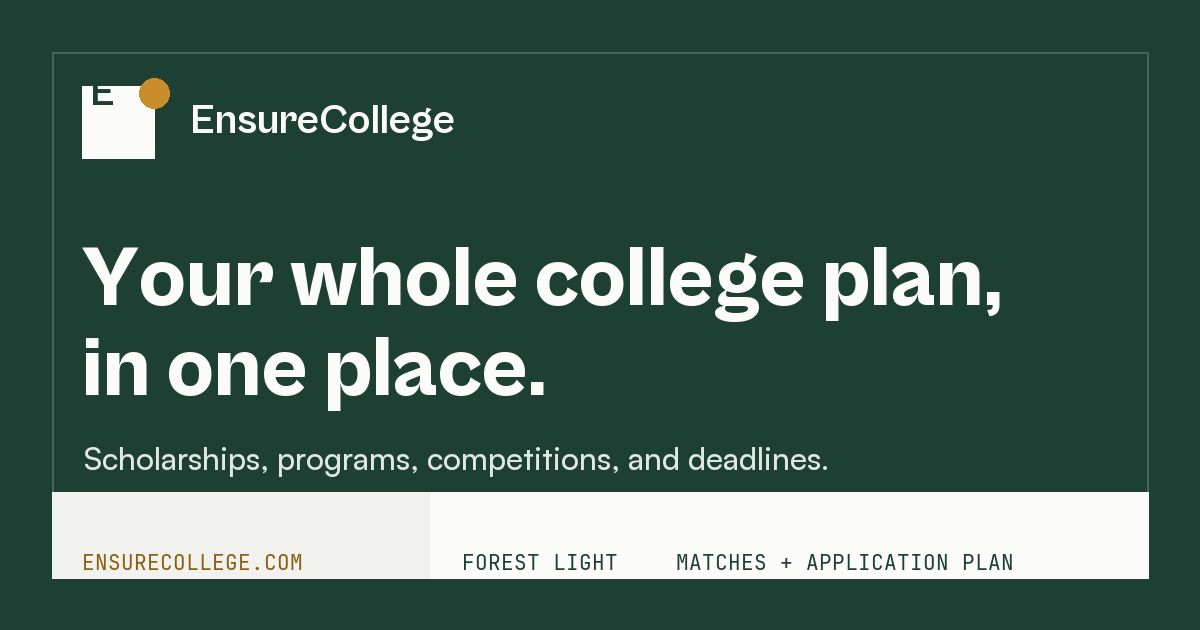
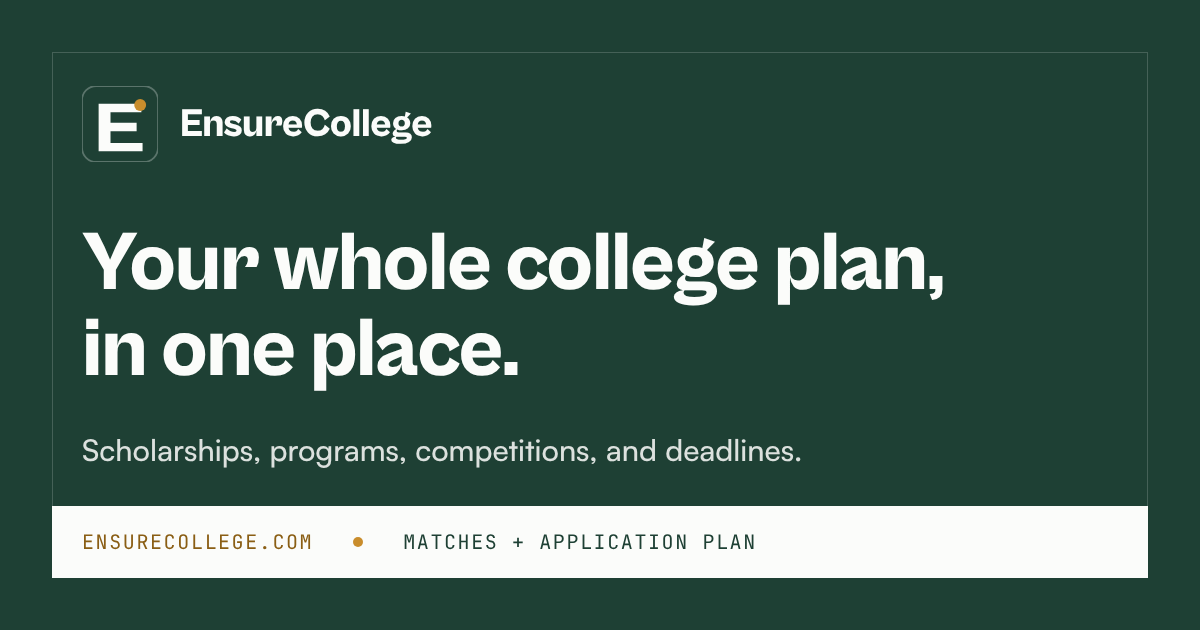
Cohesion pass: social card redrawn in Forest Light with the real brand mark
og-image.png (the card every shared link shows) drew the brand mark as a
white block with a clipped E in its corner, and printed the design
system's internal name, FOREST LIGHT, in its footer strip. Its committed
source, docs/brand/og-card.html, was still the retired Highlighter card.
The source is now a Forest Light card built from the style.css tokens and
the favicon's own mark (fonts load from app/static/fonts by relative
path), and og-image.png is its 1200x630 headless-Chromium render. Same
headline, subline, and site line; the internal name is gone.

e2e samples the PNG's mark tile (forest green with a white E); it fails
on the previous image.

diff --git a/docs/brand/og-card.html b/docs/brand/og-card.html
@@ -2,117 +2,104 @@
 <html lang="en">
 <head>
 <meta charset="utf-8">
-<link rel="preconnect" href="https://fonts.googleapis.com">
-<link rel="preconnect" href="https://fonts.gstatic.com" crossorigin>
-<link href="https://fonts.googleapis.com/css2?family=Fraunces:opsz,wght@9..144,400;9..144,600;9..144,700;9..144,800&family=Hanken+Grotesk:wght@400;500;600;700&family=Space+Mono:wght@400;700&display=swap" rel="stylesheet">
+<!-- Forest Light social card: the editable source of app/static/og-image.png.
+     Render at exactly 1200x630 in headless Chromium from the repo checkout
+     (fonts load from app/static/fonts by relative path) and save the
+     screenshot over app/static/og-image.png. Colors are the style.css
+     Forest Light tokens; the mark is app/static/favicon.svg. -->
 <style>
+  @font-face { font-family: "Cabinet Grotesk"; src: url("../../app/static/fonts/CabinetGrotesk-Extrabold.woff2") format("woff2"); font-weight: 800; }
+  @font-face { font-family: "Satoshi"; src: url("../../app/static/fonts/Satoshi-Medium.woff2") format("woff2"); font-weight: 500; }
+  @font-face { font-family: "JetBrains Mono"; src: url("../../app/static/fonts/JetBrainsMono-Regular.woff2") format("woff2"); font-weight: 400; }
+
   * { margin: 0; padding: 0; box-sizing: border-box; }
   html, body { width: 1200px; height: 630px; overflow: hidden; }
-  body { background: #eae8e1; font-family: "Hanken Grotesk", system-ui, sans-serif; }
-  .card {
-    position: absolute;
-    inset: 24px;
-    background: #fbfaf7;
-    border: 2px solid #ddd9cd;
-    border-radius: 28px;
-    padding: 52px 62px;
-  }
-  .brand-row { display: flex; align-items: center; gap: 18px; }
-  .mark {
+  body {
     position: relative;
-    display: grid;
-    place-items: center;
-    width: 64px;
-    height: 64px;
-    border-radius: 16px;
-    background: #1b2430;
-    color: #fbfaf7;
-    font-family: "Fraunces", Georgia, serif;
-    font-size: 36px;
-    font-weight: 600;
-    line-height: 1;
+    background: #1e4034; /* --brand */
+    color: #fbfcfa; /* --brand-ink */
+    font-family: "Satoshi", Arial, sans-serif;
   }
-  .mark::before {
-    content: "";
+  .frame {
     position: absolute;
-    left: 11px;
-    right: 11px;
-    bottom: 10px;
-    height: 4.5px;
-    border-radius: 999px;
-    background: #e8a200;
+    inset: 52px 52px 52px;
+    border: 1px solid rgba(251, 252, 250, 0.18);
   }
+  .brand-row {
+    position: absolute;
+    top: 86px;
+    left: 82px;
+    display: flex;
+    align-items: center;
+    gap: 22px;
+  }
+  .mark { display: block; width: 76px; height: 76px; }
+  .mark svg { display: block; width: 100%; height: 100%; }
+  /* The tile shares the card's green, so a hairline keeps its edge. */
+  .mark rect { stroke: rgba(251, 252, 250, 0.28); stroke-width: 1.5; }
   .brand-name {
-    font-family: "Fraunces", Georgia, serif;
-    font-size: 34px;
-    font-weight: 700;
-    letter-spacing: -0.02em;
-    color: #17181c;
-  }
-  .eyebrow {
-    margin-top: 7px;
-    font-family: "Space Mono", monospace;
-    font-size: 15px;
-    font-weight: 700;
-    letter-spacing: 0.14em;
-    color: #5c6069;
+    font-family: "Cabinet Grotesk", Arial, sans-serif;
+    font-size: 40px;
+    font-weight: 800;
+    letter-spacing: -0.01em;
   }
   h1 {
-    margin-top: 74px;
-    font-family: "Fraunces", Georgia, serif;
+    position: absolute;
+    top: 222px;
+    left: 82px;
+    max-width: 980px;
+    font-family: "Cabinet Grotesk", Arial, sans-serif;
     font-size: 84px;
-    font-weight: 600;
-    letter-spacing: -0.025em;
-    line-height: 1.06;
-    color: #17181c;
-  }
-  .marker {
-    background: linear-gradient(transparent 8%, rgba(240, 182, 22, 0.45) 8%, rgba(240, 182, 22, 0.45) 96%, transparent 96%);
-    padding: 0 6px;
-    margin: 0 -6px;
+    font-weight: 800;
+    line-height: 1.02;
+    letter-spacing: -0.015em;
   }
   .sub {
-    margin-top: 34px;
-    max-width: 900px;
-    font-size: 29px;
-    font-weight: 500;
-    line-height: 1.45;
-    color: #33373f;
-  }
-  .rule {
     position: absolute;
-    left: 62px;
+    top: 430px;
+    left: 82px;
+    font-size: 30px;
+    font-weight: 500;
+    color: rgba(251, 252, 250, 0.86);
+  }
+  .strip {
+    position: absolute;
+    left: 52px;
+    right: 52px;
     bottom: 52px;
     display: flex;
     align-items: center;
-    gap: 14px;
-    font-family: "Space Mono", monospace;
-    font-size: 16px;
-    font-weight: 700;
-    letter-spacing: 0.1em;
-    color: #83858c;
+    gap: 40px;
+    height: 72px;
+    padding: 0 30px;
+    background: #fbfcfa; /* --surface */
+    font-family: "JetBrains Mono", monospace;
+    font-size: 20px;
+    letter-spacing: 0.08em;
   }
-  .rule::before {
-    content: "";
-    width: 42px;
-    height: 4px;
-    border-radius: 999px;
-    background: #e8a200;
-  }
+  .strip .site { color: #8a5e14; /* --accent-deep */ }
+  .strip .what { color: #1e4034; /* --brand */ }
+  .strip .dot { width: 10px; height: 10px; border-radius: 50%; background: #c98d2c; /* --accent */ }
 </style>
 </head>
 <body>
-  <div class="card">
-    <div class="brand-row">
-      <div class="mark">E</div>
-      <div>
-        <div class="brand-name">EnsureCollege</div>
-        <div class="eyebrow">SCHOLARSHIPS &middot; PROGRAMS &middot; COMPETITIONS &middot; PLANNING</div>
-      </div>
-    </div>
-    <h1>Your whole college plan,<br><span class="marker">in one place.</span></h1>
-    <p class="sub">Scholarships, summer programs, and competitions &mdash; matched to you, with verified deadlines and a clear application plan.</p>
-    <div class="rule">ENSURECOLLEGE.COM</div>
+  <div class="frame" aria-hidden="true"></div>
+  <div class="brand-row">
+    <span class="mark" aria-hidden="true">
+      <svg xmlns="http://www.w3.org/2000/svg" viewBox="0 0 64 64">
+        <rect width="64" height="64" rx="12" fill="#1e4034"/>
+        <path d="M14 15h36v7H24v9h22v7H24v10h27v7H14z" fill="#fbfcfa"/>
+        <circle cx="49" cy="16" r="5" fill="#c98d2c"/>
+      </svg>
+    </span>
+    <span class="brand-name">EnsureCollege</span>
+  </div>
+  <h1>Your whole college plan,<br>in one place.</h1>
+  <p class="sub">Scholarships, programs, competitions, and deadlines.</p>
+  <div class="strip">
+    <span class="site">ENSURECOLLEGE.COM</span>
+    <span class="dot" aria-hidden="true"></span>
+    <span class="what">MATCHES + APPLICATION PLAN</span>
   </div>
 </body>
 </html>

diff --git a/tests/e2e/test_cohesion.py b/tests/e2e/test_cohesion.py
@@ -759,3 +759,25 @@ def test_preview_error_and_phone_filters_keep_the_rhythm(browser, live_server):
     )
     assert widths and max(widths) - min(widths) <= 1, f"filter fields stop at uneven widths: {widths}"
     ctx.close()
+
+
+def test_social_card_mark_matches_the_site_mark():
+    """og-image.png drew the brand mark as a white block with a clipped E in
+    its corner; the site's mark (header, favicon) is a forest tile with a
+    white E. Sample the card's tile: mostly forest green, some white E."""
+    from pathlib import Path
+
+    width, height, bpp, rows = _decode_png(Path("app/static/og-image.png").read_bytes())
+    assert (width, height) == (1200, 630)
+    dark = light = 0
+    for y in range(92, 156, 2):  # inside the 76px tile at (82, 86)
+        row = rows[y]
+        for x in range(88, 152, 2):
+            r, g, b = row[x * bpp], row[x * bpp + 1], row[x * bpp + 2]
+            if g > 200 and r > 200:
+                light += 1
+            elif g < 90:
+                dark += 1
+    total = dark + light
+    assert dark / total > 0.5, f"mark tile is not forest: {dark} dark of {total} samples"
+    assert light / total > 0.15, f"mark tile lost its white E: {light} light of {total} samples"
